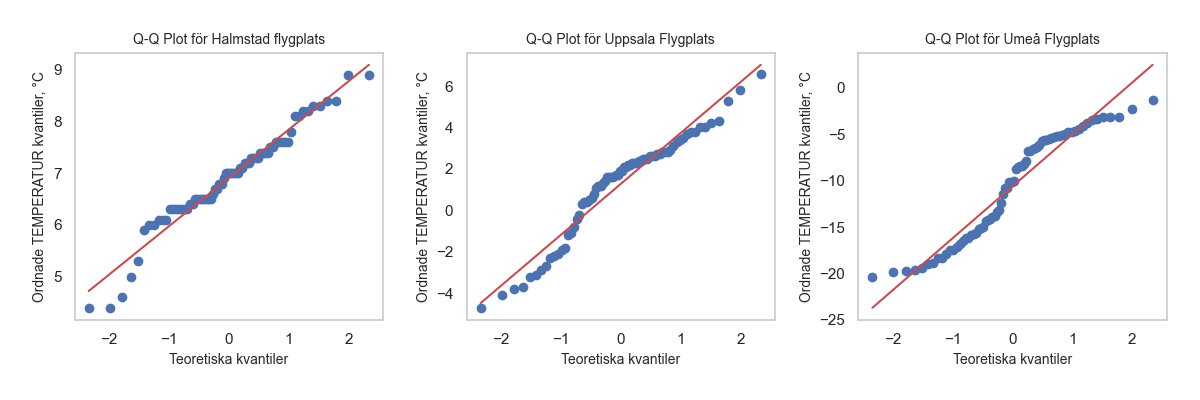
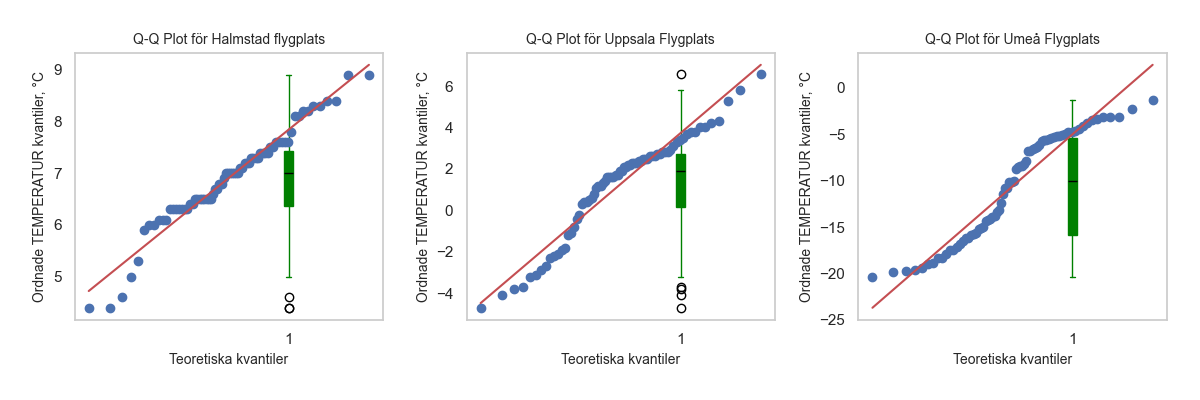
add boxplottar

diff --git a/ALL_CODE.py b/ALL_CODE.py
@@ -19,10 +19,13 @@ import seaborn as sns
 import utils
 # variables
 STATIONS = {'Halmstad flygplats': 62410, 'Uppsala Flygplats': 97530, 'Umeå Flygplats': 140480}
+COLORS = ["red"]
+# number of columns each dataframe
+NUM_COLUMNS = len(STATIONS)
 # Directory to save the data files and statistics
 OUTPUT_DIR = {"data":"smhi_data_temp_fukt", "img":"img", "statistics":"statistics"}
 #os.makedirs(OUTPUT_DIR["data"], exist_ok=True)
-
+COLORS = ["orange", "yellow", "green"]
 # parameters to download (parameter_id:parameter_name)
 PARAMS = {1:["TEMPERATUR", "°C"], 6:["LUFTFUKTIGHET", "%"]}
 # period to request. Available periods: latest-hour, latest-day, latest-months or corrected-archive
@@ -43,17 +46,17 @@ for key in PARAMS.keys():
 
 # Extract requaired period (tree days) from downloaded data
 mesured_points = 72 # how mach n will be in the data
-all_data = {}
+#all_data = {}
 three_days = {}
 
 for param_id, parameter in PARAMS.items():
-    station_data = {}
+    #station_data = {}
     three_d_station = {}
     for name, station_id in STATIONS.items():
         file_path = OUTPUT_DIR["data"] + '/' + f'{station_id}_{param_id}.json'
         with open(file_path, 'r') as file:
             data = json.load(file)
-            station_data[name] = data
+            #station_data[name] = data
             # Extract the "value" list and sort it by timestamp
             sorted_data = sorted(
                 data.get("value", []),
@@ -70,11 +73,11 @@ for param_id, parameter in PARAMS.items():
             stat_set[item['date']] = new_value  # Add date-value pair to value_set
     
         three_d_station[name] = stat_set
-    all_data[param_id] = station_data
+    #all_data[param_id] = station_data
     three_days[param_id] = three_d_station
 # chage dataset for each parameter into pandas DateFrame
+
 for key in three_days.keys():
-    
     df = pd.DataFrame.from_dict(three_days[key], orient='columns')
     # convert time index from timestamp to date-time format
     df.index = pd.to_datetime(df.index, unit='ms')
@@ -86,10 +89,45 @@ for key in three_days.keys():
     md_tabel = utils.change_to_markdown(missing_summary, None)
     utils.save_to_mdfile(md_tabel, f'{PARAMS[key][0]}_mis_summ.md', OUTPUT_DIR['statistics'])
     # Generate statistics for each location
-    stats = df.describe().round(2)
-    md_tabel = utils.change_to_markdown(stats, None)
+    stats = df.describe()
+    md_tabel = utils.change_to_markdown(stats.round(2), None)
+    utils.save_to_mdfile(md_tabel, f'{PARAMS[key][0]}_describe_stat.md', OUTPUT_DIR['statistics'])    
+    # Flatten axes for easy iteration
+
+    # Generate box plots for each column
+    NUM_COLUMNS = len(df.columns)
+    fig, axes = plt.subplots(1, NUM_COLUMNS, figsize=(4 * NUM_COLUMNS, 4), squeeze=False)
+    axes = axes.flatten()  # Flatten axes for easier iteration
+    for ax, column, color in zip(axes, df.columns, COLORS):
+        values = df[column].dropna()  # Exclude NaN values for boxplot
+        box = ax.boxplot(
+            values,
+            patch_artist=True,  # Enable custom coloring
+            boxprops=dict(facecolor=color, color="black"),  # Box fill and edge color
+            whiskerprops=dict(color="black"),  # Whisker color
+            capprops=dict(color="black"),  # Cap color
+            medianprops=dict(color="black"),  # Median line color
+        )
+        ax.set_title('') # no title
+        ax.set_xlabel(f"{column}", fontsize=10)
+        ax.set_ylabel(f"{PARAMS[key][0].lower()}, {PARAMS[key][1]}", fontsize=10)
+        ax.grid(False)
+        ax.set_xticks([])
+
+    # Adjust subplot spacing
+    plt.subplots_adjust(wspace=0.4)
     
-    utils.save_to_mdfile(md_tabel, f'{PARAMS[key][0]}_describe_stat.md', OUTPUT_DIR['statistics'])
+    # Add a title for the figure
+    fig.suptitle(f"Box plots for {PARAMS[key][0]}, {PARAMS[key][1]}", fontsize=15)
+    
+    # Save the plot
+    output_path = f"img/box_plot/{PARAMS[key][0]}_combined_box_plots.png"
+    plt.savefig(output_path)
+    print(f"Combined Box Plot saved to {output_path}")
+    
+    # Show the plot
+    plt.show()
+    plt.close()
    
 """
 Distributions plottar för enskilda parametrar
@@ -103,8 +141,8 @@ for param_id in three_days.keys():
     sns.set_theme(style="whitegrid")
     
     # Create a single figure with multiple subplots (one for each station)
-    num_columns = len(df.columns)  # Number of stations
-    fig, axes = plt.subplots(1, num_columns, figsize=(3 * num_columns, 4), squeeze=False)  # Subplots as a 2D array
+
+    fig, axes = plt.subplots(1, NUM_COLUMNS, figsize=(3 * NUM_COLUMNS, 4), squeeze=False)  # Subplots as a 2D array
     
     # Flatten axes for easy iteration
     axes = axes.flatten()
@@ -131,20 +169,27 @@ for param_id in three_days.keys():
     """
     df = pd.DataFrame.from_dict(three_days[param_id], orient='columns')
     norm_distr = utils.stat_norm_distribution(df)
-    # Determine the number of columns (stations)
-    num_columns = len(df.columns)
+
     # Define Seaborn style
     sns.set_theme(style="whitegrid")
     
     # Create a single figure with multiple subplots (one for each column)
-    fig, axes = plt.subplots(1, num_columns, figsize=(4 * num_columns, 4), squeeze=False)  # Subplots as a 2D array
+    fig, axes = plt.subplots(1, NUM_COLUMNS, figsize=(4 * NUM_COLUMNS, 4), squeeze=False)  # Subplots as a 2D array
     
     # Flatten axes for easy iteration
     axes = axes.flatten()
     # Loop through each column in the DataFrame
     for ax, key in zip(axes, df.columns):
         values = df[key]  # Extract the column values
-        
+        # add color for boxes
+        box = ax.boxplot(
+            values,
+            patch_artist=True,  # Enable custom coloring
+            boxprops=dict(facecolor=color, color=color),  # Box fill and edge color
+            whiskerprops=dict(color=color),  # Whisker color
+            capprops=dict(color=color),  # Cap color
+            medianprops=dict(color="black"),  # Median line color
+        )
         # Generate Q-Q plot for each station/column
         sci.probplot(values, dist="norm", plot=ax)
         
@@ -168,48 +213,4 @@ for param_id in three_days.keys():
     #plt.show()
     plt.close()
     
-# # distribution for all month set data
-# for param_id in all_data.keys():    
-    
-#     """
-#     Plots Q-Q plots for each column in the dataframe to check normality visually.
-#     All Q-Q plots are displayed in a single figure with multiple subplots.
-#     """
-#     df = pd.DataFrame.from_dict(all_data[param_id], orient='columns')
-#     norm_distr = utils.stat_norm_distribution(df)
-#     # Determine the number of columns (stations)
-#     num_columns = len(df.columns)
-#     # Define Seaborn style
-#     sns.set_theme(style="whitegrid")
-    
-#     # Create a single figure with multiple subplots (one for each column)
-#     fig, axes = plt.subplots(1, num_columns, figsize=(4 * num_columns, 4), squeeze=False)  # Subplots as a 2D array
-    
-#     # Flatten axes for easy iteration
-#     axes = axes.flatten()
-#     # Loop through each column in the DataFrame
-#     for ax, key in zip(axes, df.columns):
-#         values = df[key]  # Extract the column values
-        
-#         # Generate Q-Q plot for each station/column
-#         sci.probplot(values, dist="norm", plot=ax)
-        
-#         # Title and labels for the plot
-#         ax.set_title(f"Q-Q Plot för 1000 timmar data of {key}", fontsize=10)  # Title for the plot
-#         ax.set_xlabel("Teoretiska kvantiler", fontsize=10)
-#         ax.set_ylabel(f"Ordnade {PARAMS[param_id][0]} kvantiler, {PARAMS[param_id][1]}", fontsize=10)
-#         ax.grid()
-
-#     # Adjust spacing between subplots
-#     plt.tight_layout(pad=2.0, w_pad=1.5, h_pad=1.5) 
-
-#     # # Adjust the spacing between the subplots (increase space between them)
-#     # plt.subplots_adjust(wspace=0.3, hspace=0.3)  # Adjust the width and height spacing between plots
-#     # Save the combined plot
-#     path = f'img/q_q_plot/{PARAMS[param_id][0]}_combined_1000h_qq_plots.png'
-#     plt.savefig(path)
-#     print(f"Combined Q-Q Plot saved to {path}")
-    
-#     # Show the combined plot
-#     #plt.show()
-#     plt.close()
+# box plots

diff --git a/RAPPORT.md b/RAPPORT.md
@@ -80,6 +80,8 @@ Jag vill teasta om datamängd är normalfördelad. För detta skull använder ja
 Medelvärde i stationer Halmstad Flugplats och Upsala Flugplats är närmare medianen, som säger att de ssa data 
 närmare normafördelning än data från Umeå Flugplats
 
+[Ladogrammar för TEMPERATUR](img/box_plot/TEMPERATUR_combined_box_plots.png)
+
 ### Tabel 3b. [Beskrivande statistik RELATIVT LUFTFUKTIGHET](statistics/LUFTFUKTIGHET_describe_stat.md)
 
 
@@ -90,6 +92,7 @@ Både plottar och Shapiro-Wilk test för normality tillåtar förkasta nulhypote
 För andra två platser respectivt sannolikhheten för att nulhypotes stämmer är 0.29% och 0.02% och därmed är möjlighet för att felförkasta nulhypotes (fel typ II) är ännu mindre.
 
 ![Luftfuktighet frekvenser](img/frekvenser/LUFTFUKTIGHET_combined.png)
+[Ladogrammar för relativt LUFTFUKTIGHET](img/box_plot/LUFTFUKTIGHET_combined_box_plots.png)
 
 Om jag gör samma test för relativt lurftfuktighet visas det att luftfuktighet i Umeå Flugplats kan vara normalfördelad eftersom p_värde är 6.95% och större än 5%, dvs nulhypotes om att data är normalfördelade kan inta förkastas. Det är ppga stor sannoliket för fel typ II.
 ### Q_Q plottar
